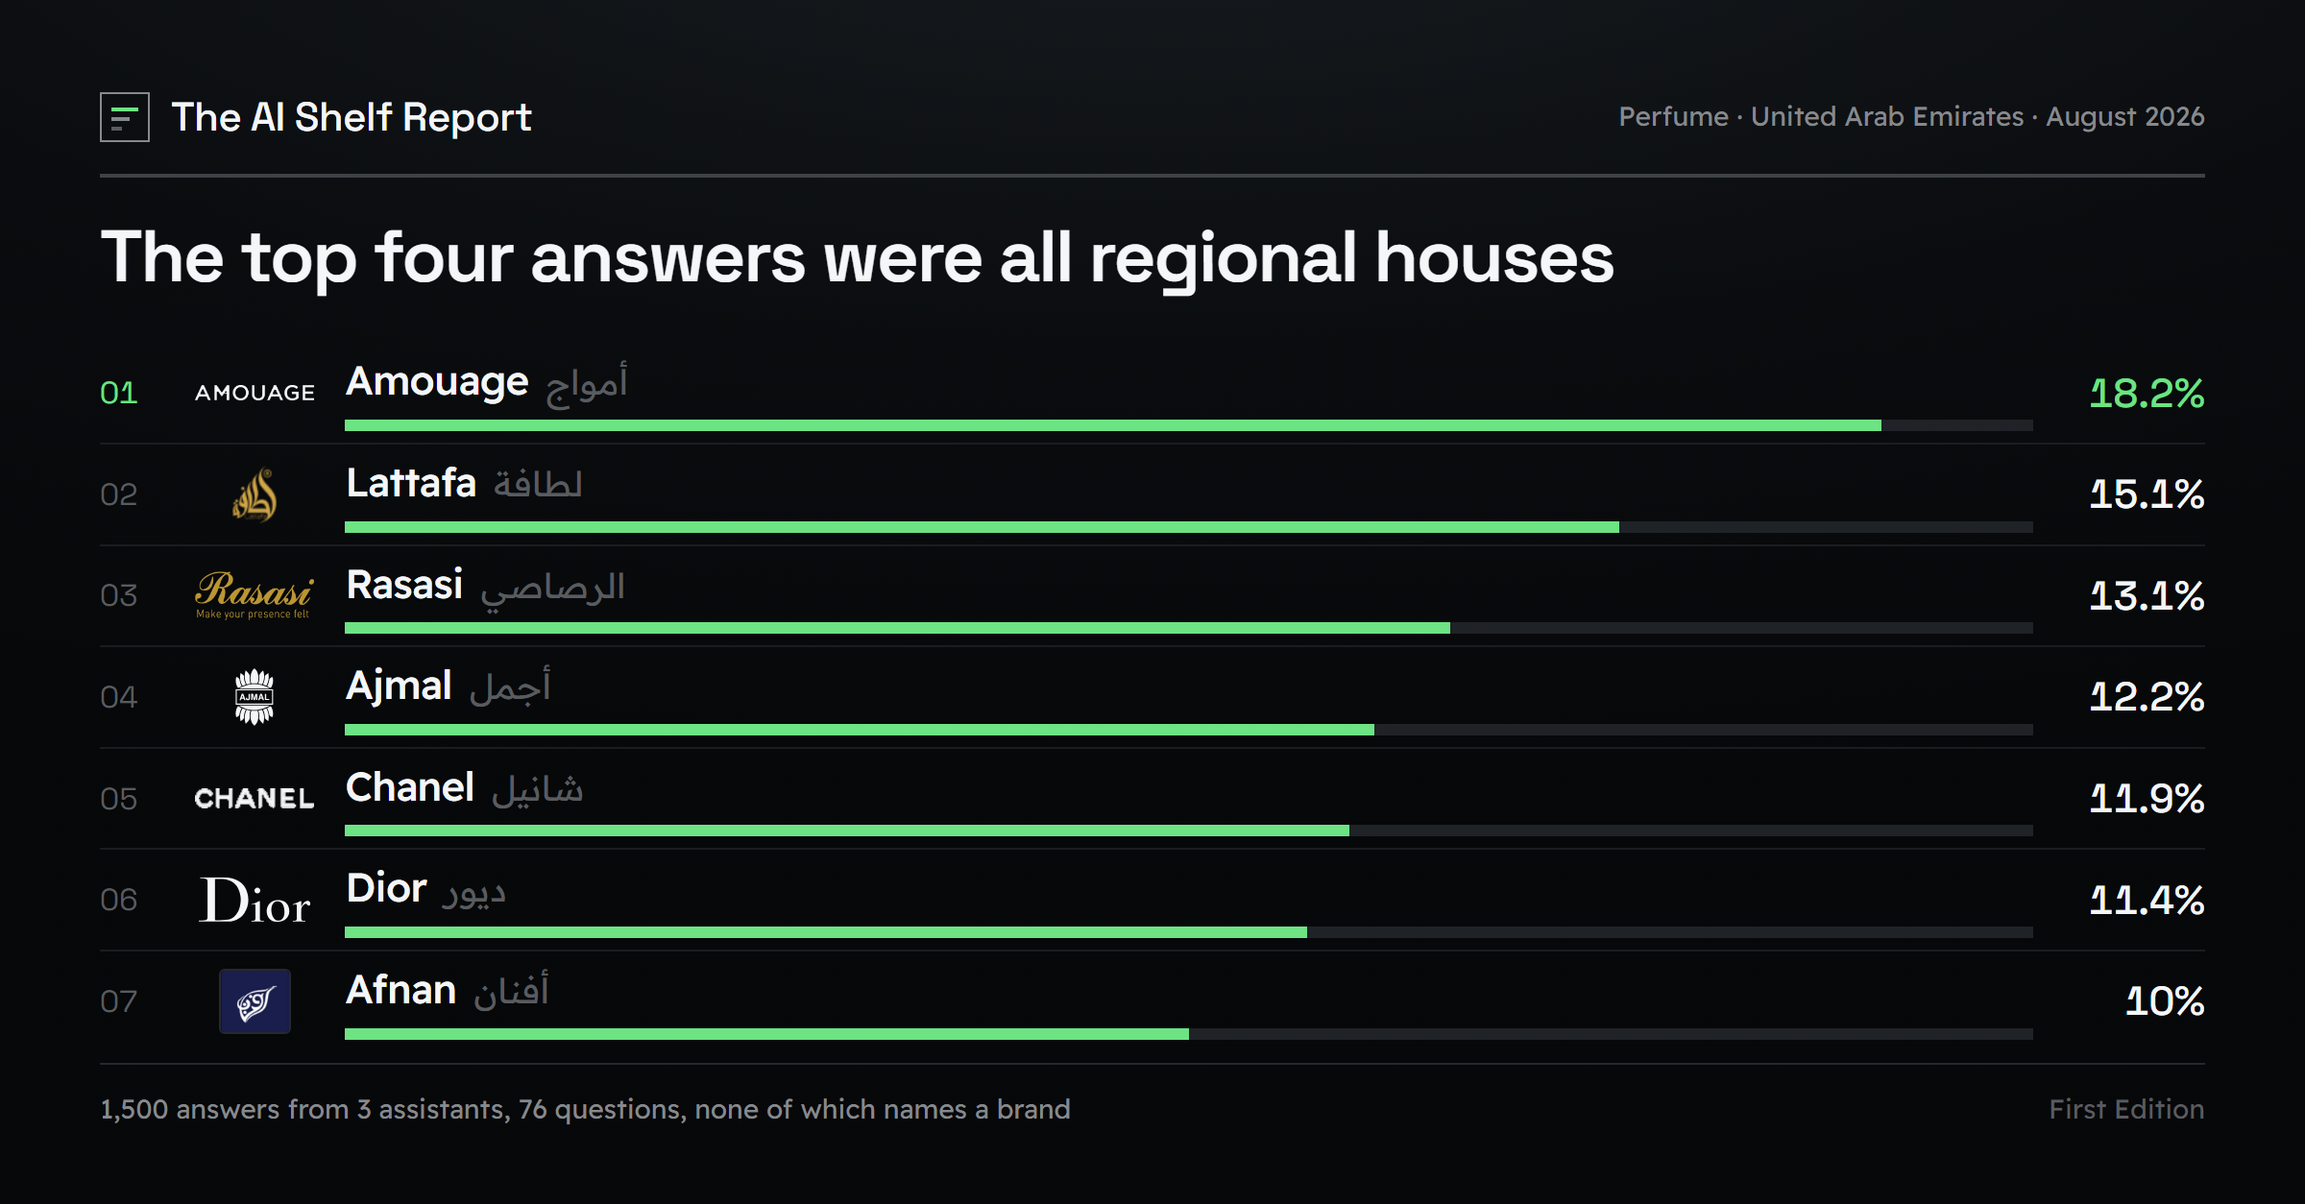
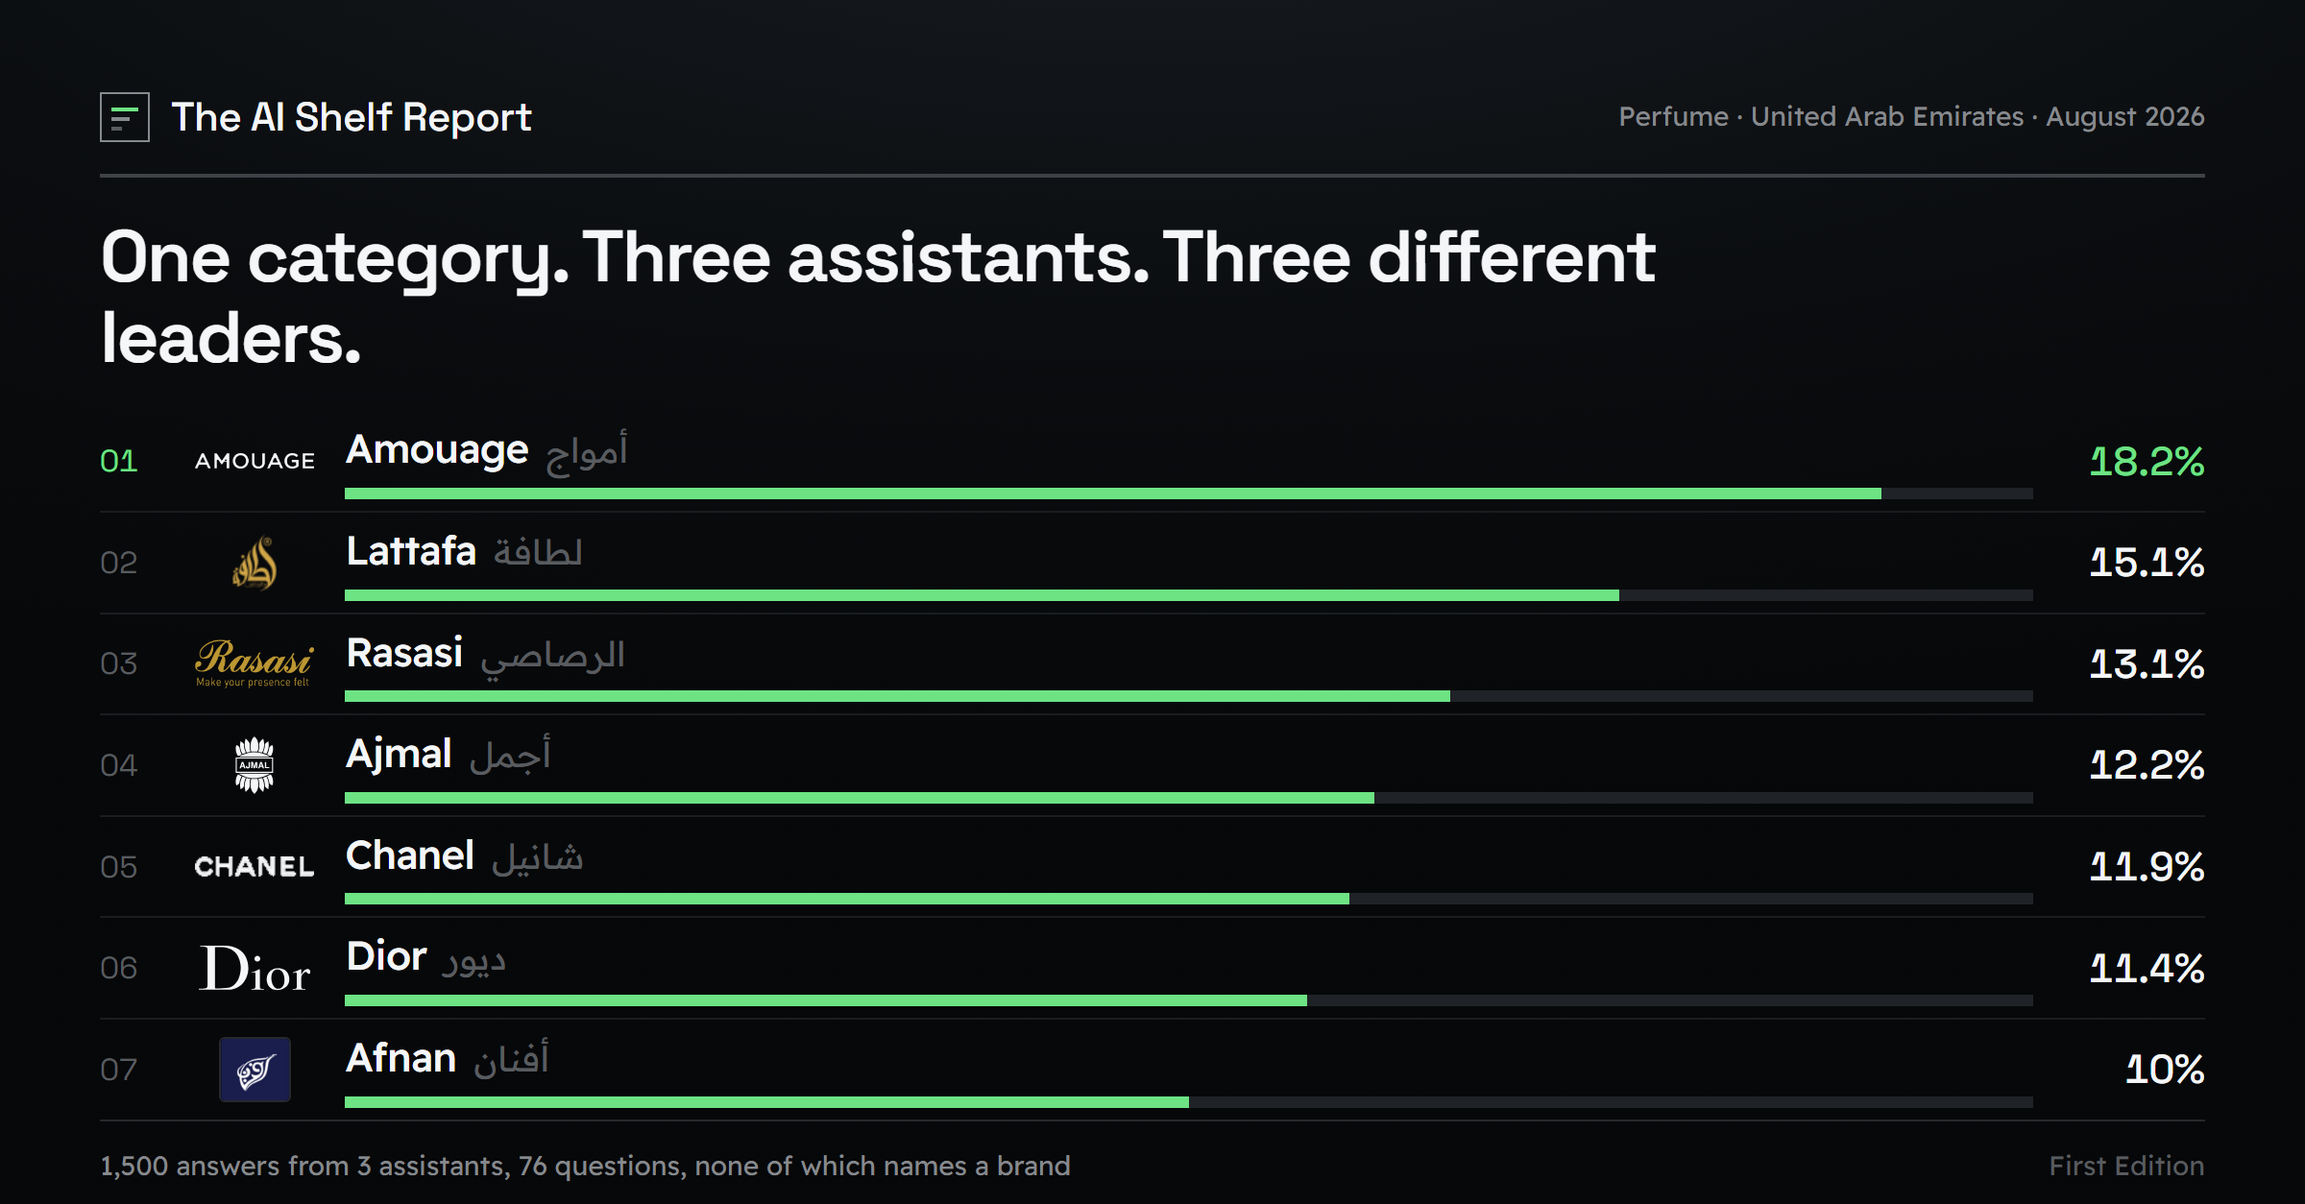
Reframe the report around what moves a visibility score
The page led with a brand ranking, which made it a category leaderboard that
happened to carry caveats. The more useful finding is the one underneath: a
single AI visibility score is the output of six measurement choices, and this
dataset can put a magnitude on every one of them.

The leaderboard now opens the page as the number a tool would report, and a new
section directly beneath it shows what each choice was worth here - questions
that name a brand move the leader from 1st to 10th, each assistant names a
different brand first, buying context reorders the board again, position
weighting outranks raw mention counts, the app carries 37% of what the API
names, and a single run reproduces only 75% of its own engine's answer.

Nothing in the numbers changed. What changed is which question the page answers.

diff --git a/index.html b/index.html
@@ -7,8 +7,8 @@
 <link rel="canonical" href="https://sewou.github.io/ai-shelf-report/">
 <meta property="og:type" content="article">
 <meta property="og:site_name" content="The AI Shelf Report">
-<meta property="og:title" content="Which perfume brands and stores do AI assistants name when UAE shoppers ask?">
-<meta property="og:description" content="3 AI assistants answered the same 100 shopper questions, 5 times each, through their APIs. Only the 76 that name no brand count toward the ranking.">
+<meta property="og:title" content="How much of an AI visibility score is the measurement, not the market?">
+<meta property="og:description" content="One category, scored six different ways. The same 1,500 answers put a different brand in first place depending on which questions count, which assistant is asked, and whether the score is read from the API or the app a shopper actually opens.">
 <meta property="og:url" content="https://sewou.github.io/ai-shelf-report/">
 <meta property="og:image" content="https://sewou.github.io/ai-shelf-report/card.png">
 <meta property="og:image:width" content="1200">
@@ -407,8 +407,8 @@ h2.section {      /* report titles: the largest thing on the page after the head
 
     <!-- headline block -->
     <div style="margin-top:22px">
-      <h1 style="margin:0;font-family:var(--font-display);font-size:33px;font-weight:var(--w-semi);line-height:1.06;letter-spacing:var(--ls-display);max-width:19em;text-wrap:balance">Which perfume brands and stores do AI assistants name when UAE shoppers ask?</h1>
-      <p style="margin:13px 0 0;font-size:13px;line-height:1.55;color:var(--ink-2);max-width:44em;text-wrap:pretty">3 AI assistants answered the same 100 shopper questions, 5 times each, through their APIs. Only the 76 that name no brand count toward the ranking.</p>
+      <h1 style="margin:0;font-family:var(--font-display);font-size:33px;font-weight:var(--w-semi);line-height:1.06;letter-spacing:var(--ls-display);max-width:19em;text-wrap:balance">How much of an AI visibility score is the measurement, not the market?</h1>
+      <p style="margin:13px 0 0;font-size:13px;line-height:1.55;color:var(--ink-2);max-width:44em;text-wrap:pretty">One category, scored six different ways. The same 1,500 answers put a different brand in first place depending on which questions count, which assistant is asked, and whether the score is read from the API or the app a shopper actually opens.</p>
     </div>
 
     <!-- key figures -->
@@ -441,7 +441,7 @@ h2.section {      /* report titles: the largest thing on the page after the head
       <div style="display:flex;justify-content:space-between;align-items:flex-end;gap:var(--sp-5)">
         <div>
           <h2 class="section">Shelf Share</h2>
-          <p class="section-note">38 of the 43 tracked brands were named at least once. 7 come up often enough to rank.</p>
+          <p class="section-note">This is the single number an AI visibility tool would report. Everything below is what it averages away.</p>
         </div>
         <div style="display:flex;align-items:center;gap:14px;flex-wrap:nowrap;padding-bottom:2px">
           <div style="display:flex;align-items:center;gap:6px"><span style="width:8px;height:8px;background:var(--state-visible-fill);display:block"></span><span style="font-size:10.5px;color:var(--ink-3)">Visible</span></div>
@@ -853,6 +853,70 @@ h2.section {      /* report titles: the largest thing on the page after the head
       </div>
       
     </div>
+
+    <!-- the levers: what a single score is actually the output of -->
+    
+    <div style="margin-top:26px;background:var(--card);padding:18px 20px 16px">
+      <h2 class="section">What moves that number</h2>
+      <p class="section-note">Six choices sit behind any single visibility score. Here is what each one was worth in this category.</p>
+
+      <div style="margin-top:15px;display:flex;flex-direction:column">
+        
+        <div style="display:grid;grid-template-columns:13.5em minmax(0,1fr);column-gap:20px;align-items:baseline;padding:10px 0;border-bottom:var(--hair) solid var(--rule-faint);">
+          <div>
+            <div style="font-size:12.5px;font-weight:var(--w-medium);color:var(--ink);letter-spacing:var(--ls-tight)">Which questions count</div>
+            <div style="font-size:10.5px;color:var(--ink-4);margin-top:3px;line-height:1.35">Questions that name a brand, or only questions that do not.</div>
+          </div>
+          <div style="font-size:12px;color:var(--ink-2);line-height:1.5">Amouage ranks 1st on questions that name no brand, 10th on questions that do.</div>
+        </div>
+        
+        <div style="display:grid;grid-template-columns:13.5em minmax(0,1fr);column-gap:20px;align-items:baseline;padding:10px 0;border-bottom:var(--hair) solid var(--rule-faint);">
+          <div>
+            <div style="font-size:12.5px;font-weight:var(--w-medium);color:var(--ink);letter-spacing:var(--ls-tight)">Which assistant is asked</div>
+            <div style="font-size:10.5px;color:var(--ink-4);margin-top:3px;line-height:1.35">One engine, or several averaged together.</div>
+          </div>
+          <div style="font-size:12px;color:var(--ink-2);line-height:1.5">Gemini puts Lattafa first, ChatGPT puts Amouage first, Perplexity puts Ajmal first.</div>
+        </div>
+        
+        <div style="display:grid;grid-template-columns:13.5em minmax(0,1fr);column-gap:20px;align-items:baseline;padding:10px 0;border-bottom:var(--hair) solid var(--rule-faint);">
+          <div>
+            <div style="font-size:12.5px;font-weight:var(--w-medium);color:var(--ink);letter-spacing:var(--ls-tight)">What the shopper is asking for</div>
+            <div style="font-size:10.5px;color:var(--ink-4);margin-top:3px;line-height:1.35">Price and occasion cues in the question.</div>
+          </div>
+          <div style="font-size:12px;color:var(--ink-2);line-height:1.5">Lattafa leads the value questions with 67.2%. Amouage leads the premium ones with 52.3%.</div>
+        </div>
+        
+        <div style="display:grid;grid-template-columns:13.5em minmax(0,1fr);column-gap:20px;align-items:baseline;padding:10px 0;border-bottom:var(--hair) solid var(--rule-faint);">
+          <div>
+            <div style="font-size:12.5px;font-weight:var(--w-medium);color:var(--ink);letter-spacing:var(--ls-tight)">Whether position counts</div>
+            <div style="font-size:10.5px;color:var(--ink-4);margin-top:3px;line-height:1.35">A name near the end of an answer, or only a name near the start.</div>
+          </div>
+          <div style="font-size:12px;color:var(--ink-2);line-height:1.5">On Gemini, Dior is named on more questions than Lattafa and still places below it, because it appears later in the answer.</div>
+        </div>
+        
+        <div style="display:grid;grid-template-columns:13.5em minmax(0,1fr);column-gap:20px;align-items:baseline;padding:10px 0;border-bottom:var(--hair) solid var(--rule-faint);">
+          <div>
+            <div style="font-size:12.5px;font-weight:var(--w-medium);color:var(--ink);letter-spacing:var(--ls-tight)">API or the app</div>
+            <div style="font-size:10.5px;color:var(--ink-4);margin-top:3px;line-height:1.35">The interface a tool measures through.</div>
+          </div>
+          <div style="font-size:12px;color:var(--ink-2);line-height:1.5">One app answer carries 37% of what that assistant names consistently. 6 of 36 app answers named no brand at all.</div>
+        </div>
+        
+        <div style="display:grid;grid-template-columns:13.5em minmax(0,1fr);column-gap:20px;align-items:baseline;padding:10px 0;">
+          <div>
+            <div style="font-size:12.5px;font-weight:var(--w-medium);color:var(--ink);letter-spacing:var(--ls-tight)">How much is just noise</div>
+            <div style="font-size:10.5px;color:var(--ink-4);margin-top:3px;line-height:1.35">The same question, asked again.</div>
+          </div>
+          <div style="font-size:12px;color:var(--ink-2);line-height:1.5">A single API run reproduces only 75% of its own engine&#39;s consistent answer. Any gap smaller than that is not a finding.</div>
+        </div>
+        
+      </div>
+
+      <p class="rule-t" style="margin:14px 0 0;padding-top:12px;font-size:11.5px;line-height:1.5;color:var(--ink-3)">
+        None of these is the wrong choice. They are simply choices, and a score reported without them is a number whose meaning cannot be checked.
+      </p>
+    </div>
+    
 
     <!-- THE FINDING: the three assistants do not agree -->
     

diff --git a/paper.html b/paper.html
@@ -7,8 +7,8 @@
 <link rel="canonical" href="https://sewou.github.io/ai-shelf-report/">
 <meta property="og:type" content="article">
 <meta property="og:site_name" content="The AI Shelf Report">
-<meta property="og:title" content="Which perfume brands and stores do AI assistants name when UAE shoppers ask?">
-<meta property="og:description" content="3 AI assistants answered the same 100 shopper questions, 5 times each, through their APIs. Only the 76 that name no brand count toward the ranking.">
+<meta property="og:title" content="How much of an AI visibility score is the measurement, not the market?">
+<meta property="og:description" content="One category, scored six different ways. The same 1,500 answers put a different brand in first place depending on which questions count, which assistant is asked, and whether the score is read from the API or the app a shopper actually opens.">
 <meta property="og:url" content="https://sewou.github.io/ai-shelf-report/">
 <meta property="og:image" content="https://sewou.github.io/ai-shelf-report/card.png">
 <meta property="og:image:width" content="1200">
@@ -407,8 +407,8 @@ h2.section {      /* report titles: the largest thing on the page after the head
 
     <!-- headline block -->
     <div style="margin-top:22px">
-      <h1 style="margin:0;font-family:var(--font-display);font-size:33px;font-weight:var(--w-semi);line-height:1.06;letter-spacing:var(--ls-display);max-width:19em;text-wrap:balance">Which perfume brands and stores do AI assistants name when UAE shoppers ask?</h1>
-      <p style="margin:13px 0 0;font-size:13px;line-height:1.55;color:var(--ink-2);max-width:44em;text-wrap:pretty">3 AI assistants answered the same 100 shopper questions, 5 times each, through their APIs. Only the 76 that name no brand count toward the ranking.</p>
+      <h1 style="margin:0;font-family:var(--font-display);font-size:33px;font-weight:var(--w-semi);line-height:1.06;letter-spacing:var(--ls-display);max-width:19em;text-wrap:balance">How much of an AI visibility score is the measurement, not the market?</h1>
+      <p style="margin:13px 0 0;font-size:13px;line-height:1.55;color:var(--ink-2);max-width:44em;text-wrap:pretty">One category, scored six different ways. The same 1,500 answers put a different brand in first place depending on which questions count, which assistant is asked, and whether the score is read from the API or the app a shopper actually opens.</p>
     </div>
 
     <!-- key figures -->
@@ -441,7 +441,7 @@ h2.section {      /* report titles: the largest thing on the page after the head
       <div style="display:flex;justify-content:space-between;align-items:flex-end;gap:var(--sp-5)">
         <div>
           <h2 class="section">Shelf Share</h2>
-          <p class="section-note">38 of the 43 tracked brands were named at least once. 7 come up often enough to rank.</p>
+          <p class="section-note">This is the single number an AI visibility tool would report. Everything below is what it averages away.</p>
         </div>
         <div style="display:flex;align-items:center;gap:14px;flex-wrap:nowrap;padding-bottom:2px">
           <div style="display:flex;align-items:center;gap:6px"><span style="width:8px;height:8px;background:var(--state-visible-fill);display:block"></span><span style="font-size:10.5px;color:var(--ink-3)">Visible</span></div>
@@ -853,6 +853,70 @@ h2.section {      /* report titles: the largest thing on the page after the head
       </div>
       
     </div>
+
+    <!-- the levers: what a single score is actually the output of -->
+    
+    <div style="margin-top:26px;background:var(--card);padding:18px 20px 16px">
+      <h2 class="section">What moves that number</h2>
+      <p class="section-note">Six choices sit behind any single visibility score. Here is what each one was worth in this category.</p>
+
+      <div style="margin-top:15px;display:flex;flex-direction:column">
+        
+        <div style="display:grid;grid-template-columns:13.5em minmax(0,1fr);column-gap:20px;align-items:baseline;padding:10px 0;border-bottom:var(--hair) solid var(--rule-faint);">
+          <div>
+            <div style="font-size:12.5px;font-weight:var(--w-medium);color:var(--ink);letter-spacing:var(--ls-tight)">Which questions count</div>
+            <div style="font-size:10.5px;color:var(--ink-4);margin-top:3px;line-height:1.35">Questions that name a brand, or only questions that do not.</div>
+          </div>
+          <div style="font-size:12px;color:var(--ink-2);line-height:1.5">Amouage ranks 1st on questions that name no brand, 10th on questions that do.</div>
+        </div>
+        
+        <div style="display:grid;grid-template-columns:13.5em minmax(0,1fr);column-gap:20px;align-items:baseline;padding:10px 0;border-bottom:var(--hair) solid var(--rule-faint);">
+          <div>
+            <div style="font-size:12.5px;font-weight:var(--w-medium);color:var(--ink);letter-spacing:var(--ls-tight)">Which assistant is asked</div>
+            <div style="font-size:10.5px;color:var(--ink-4);margin-top:3px;line-height:1.35">One engine, or several averaged together.</div>
+          </div>
+          <div style="font-size:12px;color:var(--ink-2);line-height:1.5">Gemini puts Lattafa first, ChatGPT puts Amouage first, Perplexity puts Ajmal first.</div>
+        </div>
+        
+        <div style="display:grid;grid-template-columns:13.5em minmax(0,1fr);column-gap:20px;align-items:baseline;padding:10px 0;border-bottom:var(--hair) solid var(--rule-faint);">
+          <div>
+            <div style="font-size:12.5px;font-weight:var(--w-medium);color:var(--ink);letter-spacing:var(--ls-tight)">What the shopper is asking for</div>
+            <div style="font-size:10.5px;color:var(--ink-4);margin-top:3px;line-height:1.35">Price and occasion cues in the question.</div>
+          </div>
+          <div style="font-size:12px;color:var(--ink-2);line-height:1.5">Lattafa leads the value questions with 67.2%. Amouage leads the premium ones with 52.3%.</div>
+        </div>
+        
+        <div style="display:grid;grid-template-columns:13.5em minmax(0,1fr);column-gap:20px;align-items:baseline;padding:10px 0;border-bottom:var(--hair) solid var(--rule-faint);">
+          <div>
+            <div style="font-size:12.5px;font-weight:var(--w-medium);color:var(--ink);letter-spacing:var(--ls-tight)">Whether position counts</div>
+            <div style="font-size:10.5px;color:var(--ink-4);margin-top:3px;line-height:1.35">A name near the end of an answer, or only a name near the start.</div>
+          </div>
+          <div style="font-size:12px;color:var(--ink-2);line-height:1.5">On Gemini, Dior is named on more questions than Lattafa and still places below it, because it appears later in the answer.</div>
+        </div>
+        
+        <div style="display:grid;grid-template-columns:13.5em minmax(0,1fr);column-gap:20px;align-items:baseline;padding:10px 0;border-bottom:var(--hair) solid var(--rule-faint);">
+          <div>
+            <div style="font-size:12.5px;font-weight:var(--w-medium);color:var(--ink);letter-spacing:var(--ls-tight)">API or the app</div>
+            <div style="font-size:10.5px;color:var(--ink-4);margin-top:3px;line-height:1.35">The interface a tool measures through.</div>
+          </div>
+          <div style="font-size:12px;color:var(--ink-2);line-height:1.5">One app answer carries 37% of what that assistant names consistently. 6 of 36 app answers named no brand at all.</div>
+        </div>
+        
+        <div style="display:grid;grid-template-columns:13.5em minmax(0,1fr);column-gap:20px;align-items:baseline;padding:10px 0;">
+          <div>
+            <div style="font-size:12.5px;font-weight:var(--w-medium);color:var(--ink);letter-spacing:var(--ls-tight)">How much is just noise</div>
+            <div style="font-size:10.5px;color:var(--ink-4);margin-top:3px;line-height:1.35">The same question, asked again.</div>
+          </div>
+          <div style="font-size:12px;color:var(--ink-2);line-height:1.5">A single API run reproduces only 75% of its own engine&#39;s consistent answer. Any gap smaller than that is not a finding.</div>
+        </div>
+        
+      </div>
+
+      <p class="rule-t" style="margin:14px 0 0;padding-top:12px;font-size:11.5px;line-height:1.5;color:var(--ink-3)">
+        None of these is the wrong choice. They are simply choices, and a score reported without them is a number whose meaning cannot be checked.
+      </p>
+    </div>
+    
 
     <!-- THE FINDING: the three assistants do not agree -->
     
